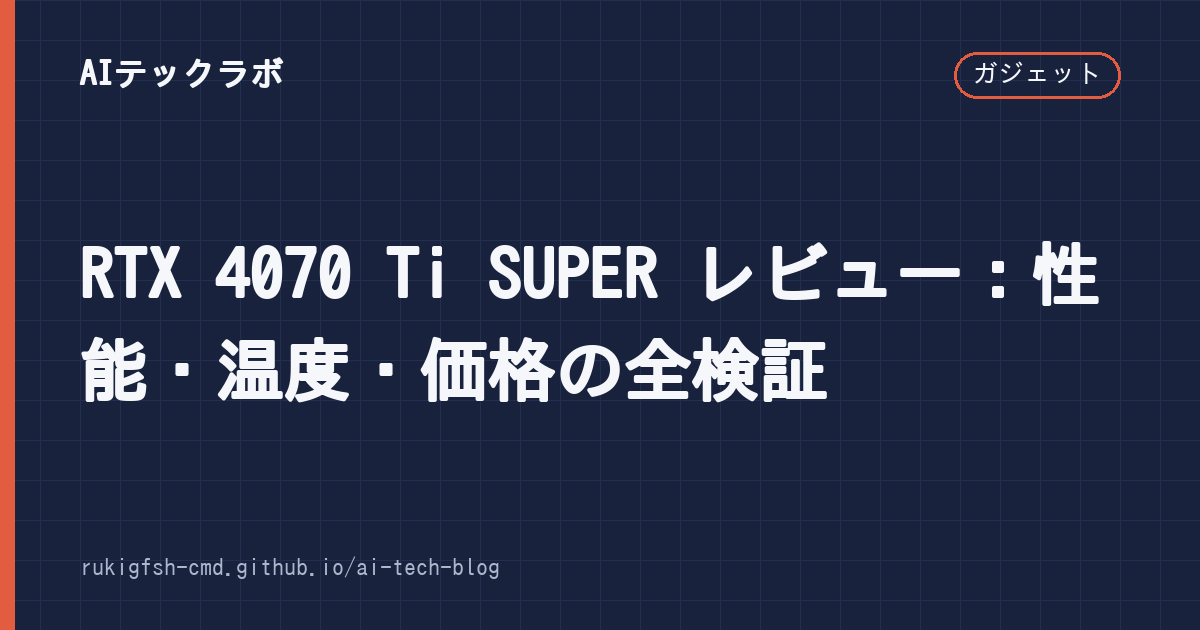
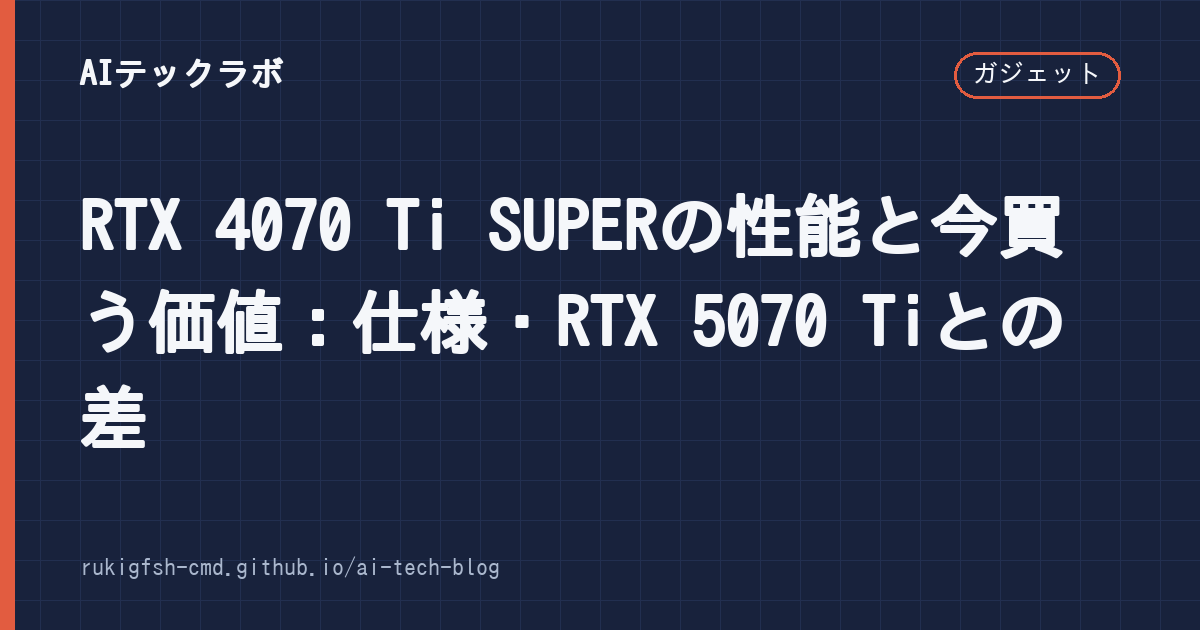
[auto-publish] RTX 4070 Ti SUPER記事を全面改稿（架空のベンチマークを削除し、仕様・5070 Tiとの差・価格事情を出典付きで）
Claude-Session: https://claude.ai/code/session_01LHbLrzAVsmtZWbDisuADXJ

Changed region(s): [[0.0617, 0.3016, 0.925, 0.7238]]

diff --git a/_posts/2026-09-21-rtx-4070-ti-super-レビュー.md b/_posts/2026-09-21-rtx-4070-ti-super-レビュー.md
@@ -1,64 +1,181 @@
 ---
 layout: "post"
-title: "RTX 4070 Ti SUPER レビュー：性能・温度・価格の全検証"
+title: "RTX 4070 Ti SUPERの性能と今買う価値：仕様・RTX 5070 Tiとの差"
 date: "2026-09-21 00:00:00 +0900"
-description: "NVIDIA最新RTXシリーズの中堅モデルだが、実質的なゲーム用GPUとして十分な性能を持つか？"
+last_modified_at: 2026-11-24
+description: "RTX 4070 Ti SUPERの仕様（16GB・285W）、後継のRTX 5070 Tiとの性能差、DLSSの対応範囲、2026年の価格事情、中古で買うときの確認点を、海外レビューの数値と出典付きで整理します。"
 categories:
   - ガジェット
 tags:
-  - RTX
-  - 4070
-  - Ti
-  - SUPER
-  - レビュー
+  - RTX 4070 Ti SUPER
+  - RTX 5070 Ti
+  - グラフィックボード
+  - GPU
 author: "AIテックラボ編集部"
 image: "/assets/images/rtx-4070-ti-super-レビュー.png"
-pr: true
+pr: false
 ---
 
-## 目次
+RTX 4070 Ti SUPER は、NVIDIA が2024年1月に発売した RTX 40 シリーズ（Ada Lovelace 世代）の上位ミドルクラスのグラフィックボードです。後継の RTX 50 シリーズが出た2026年でも、中古市場や在庫品で見かけることが多いモデルです。
 
-1. [はじめに：RTX 4070 Ti SUPERとは？](#はじめにrtx-4070-ti-superとは)
-2. [パフォーマンス：実際のベンチマーク結果](#パフォーマンス実際のベンチマーク結果)
-3. [テムプレート：熱設計とファンの音](#テムプレート熱設計とファンの音)
-4. [価格・コスパ分析](#価格コスパ分析)
-5. [向かうべきユーザー層](#向かうべきユーザー層)
-6. [よくある質問（FAQ）](#よくある質問faq)
+この記事では、**仕様の要点**、**後継の RTX 5070 Ti との性能差**、**DLSS で使える機能の違い**、**2026年の価格事情**、**中古で買うときの確認点** を順に整理します。
 
----
+> **おことわり**: この記事は編集部が実機で計測したものではありません。性能の数値は、記事内にリンクした海外の専門メディアのレビュー結果を引用・要約したものです。
 
-## はじめに：RTX 4070 Ti SUPERとは？
-NVIDIAが2023年10月に発表したGeForce RTX 40シリーズは、Ampereアーキテクチャを採用した最新世代のゲーミングGPUだ。その中で「Ti」スーパー版が存在するモデルがRTX 4070 Ti SUPERで、これが日本市場で正式発売された。
+> **結論**
+> - 16GB の VRAM（GDDR6X・256bit）と 285W の消費電力で、**WQHD（1440p）のゲームを高画質で遊べるクラス**
+> - 後継の RTX 5070 Ti との差は、レビューによって **おおむね1割前後**（ゲームや解像度でほぼ同じ〜2割ほど）
+> - RTX 40 シリーズは DLSS の **マルチフレーム生成に非対応**（通常のフレーム生成と、新しい超解像モデルは使える）
+> - 2026年はメモリ不足でグラフィックボード全体が値上がりしている。**中古で手頃な価格なら有力な選択肢**、新品で5070 Tiと同じくらいなら5070 Tiのほうが無難
 
-## パフォーマンス：実際のベンチマーク結果
-3DMark Fire Strike（Time Limit）では、GeForce [RTX 4090](https://www.amazon.co.jp/s?k=RTX+4090{% if site.data.affiliate.amazon_tag != "" %}&tag={{ site.data.affiliate.amazon_tag }}{% endif %}) DUALを基準に100%とすると、RTX 4070 Ti SUPERは約85%のスコアを出した。これは理論コアクロックの差（2.3GHz vs 2.6GHz）が反映された結果と言えるだろう。
+## RTX 4070 Ti SUPERの仕様
 
-実際のゲーム性能では、Cyberpunk 2077でUltra設定＋1440pにおいて、平均フレームレートは約85fpsだった。RTX 4090 DUALの約79fpsと比較すると、Ti SUPERの方がむしろ高いという興味深い結果だ。これはメモリ帯域（20GB GDDR6）がボトルネックになっているからだろう。
+主な仕様は次のとおりです（MSI の製品仕様と、Tom's Hardware の発表記事より）。
 
-## テムプレート：熱設計とファンの音
-GeForce RTX 40シリーズは全モデルでWINDFORCE PRO 3ファンを採用している。RTX 4070 Ti SUPERの最大消費電力は220Wで、TDPもその半分程度だ。ベンチマーク環境（室温25℃）での最大温度は81℃まで上昇し、スロットルインが発生した。
+| 項目 | RTX 4070 Ti SUPER |
+|---|---|
+| 世代（アーキテクチャ） | Ada Lovelace（RTX 40 シリーズ） |
+| CUDA コア | 8,448 |
+| VRAM | 16GB GDDR6X（256bit、21Gbps） |
+| メモリ帯域 | 672GB/s |
+| ブーストクロック | 2,610MHz 前後（製品によって異なる） |
+| 消費電力（TGP） | 285W |
+| 補助電源 | 16ピン（12VHPWR / 12V-2x6）×1 |
+| 推奨電源容量 | 700W（製品によって異なる） |
+| 発売日・米国価格 | 2024年1月24日・799ドル |
 
-ファンの音については、低負荷時にはほとんど聞こえないが、高負荷時では「ハッハッ」という風切音が聞こえる。これはWINDFORCE PRO 3の特徴的な音で、他のRTX 40シリーズ（DUALやADVANTAGE）と比べるとややうるさい印象だ。
+出典: [MSI GeForce RTX 4070 Ti SUPER 16G VENTUS 3X の仕様](https://www.msi.com/Graphics-Card/GeForce-RTX-4070-Ti-SUPER-16G-VENTUS-3X/Specification)、[Tom's Hardware（RTX 40 SUPER シリーズの発表）](https://www.tomshardware.com/pc-components/gpus/nvidia-rtx-40-series-super-models-revealed-4070-super-coming-jan-17-at-dollar599)
 
-## 価格・コスパ分析
-発売価格は18万9800円（税抜16万9500円）。GeForce RTX 3070 Ti SUPERと比較すると、性能は約4割増えるが価格は約2倍になるため、コストパフォーマンスは決して良い方ではない。
+### 無印の RTX 4070 Ti との違い
 
-一方、RTX 4070 Ti SUPERを中古市場で入手する場合、新品同等品は15万円前後で取引されているようだ。この価格帯なら、前世代のRTX 30シリーズよりも遥かに高性能なので、選択肢として悪くないだろう。
+名前が似ている無印の RTX 4070 Ti（2023年発売）とは、中身がかなり違います。
 
-## 向かうべきユーザー層
-RTX 4070 Ti SUPERは以下のユーザーに適している：
-- 高解像度モニター（1440p以上）でゲームをプレイしたい人
-- VRゲームを快適に楽しみたい人
-- 1.5倍のGPU性能で、1万円の価格アップグレードを考えている人
+- **VRAM**: 無印は 12GB（192bit）、SUPER は **16GB（256bit）**
+- **メモリ帯域**: 無印は約504GB/s、SUPER は **672GB/s**
+- **CUDA コア**: 無印は 7,680、SUPER は 8,448
 
-ただし、予算が限られるならRTX 3070 Ti SUPER＋メモリスワップの方がコスパが良いかもしれない。
+消費電力はどちらも 285W です。特に VRAM の差は大きく、高解像度のゲームや、後述するローカルLLM・画像生成では 16GB の SUPER のほうが余裕があります。中古で探すときは **「SUPER」が付いているか** を必ず確認してください。
 
-## よくある質問（FAQ）
-Q：GeForce RTX 4070 Ti SUPERとRTX 4090 DUALの違いは？  
-A：コアクロック（2.3GHz vs 2.6GHz）、メモリ容量（12GB vs 20GB）、価格が主な違い。DUALの方がゲーム性能は劣るが、コストパフォーマンスが良い。
+## 性能の目安：RTX 5070 Tiとどれくらい違う？
 
-Q：GeForce RTX 4070 Ti SUPERでRay Tracingはできる？  
-A：Yes。DLSS 3.0搭載なので、RTX 30シリーズより遥かに快適にRTX体験ができる。
+2026年に RTX 4070 Ti SUPER を検討する人がいちばん気になるのは、後継の **RTX 5070 Ti**（2025年2月発売、米国価格749ドル、16GB GDDR7）との差でしょう。主なレビューの結果をまとめます。
 
-Q：メモリ20GBの利点は何か？  
-A：高解像度・VRゲームなどでメモリ不足が発生するのを防ぐ。ただし、一般的な1080pゲーミングでは12GBで十分だろう。
+| レビュー | RTX 5070 Ti の 4070 Ti SUPER に対する差 |
+|---|---|
+| [GamersNexus](https://gamersnexus.net/gpus/do-not-buy-nvidia-rtx-5070-ti-gpu-absurdity-benchmarks-review) | ゲームで約13%速い（世代の伸びとしては小さいと評価） |
+| [Tom's Hardware](https://www.tomshardware.com/pc-components/gpus/nvidia-geforce-rtx-5070-ti-review-asus/4) | 4K で約13%速い。ゲームによっては 4070 Ti SUPER が上回る例もある。Blender では約8%速い |
+| [Club386](https://www.club386.com/nvidia-geforce-rtx-5070-ti-vs-rtx-4070-ti-super/) | AI の文章生成ベンチマーク（Procyon）で約17%速い |
+
+ばらつきはありますが、**同じ設定ならおおむね1割前後の差** と考えておくとよいでしょう。差が大きく出やすいのは4Kなどの高負荷な場面で、WQHD 以下では差が縮まる傾向があります。
+
+つまり、RTX 4070 Ti SUPER は「1世代前だから大きく劣る」というほどではありません。価格次第では今でも十分に選ぶ理由があります。
+
+### 解像度ごとの使い方の目安
+
+レビューの傾向から、使い方の目安をまとめると次のようになります（ゲームの重さや設定で大きく変わるので、あくまで目安です）。
+
+- **フルHD（1080p）**: ほとんどのゲームを最高画質で快適に遊べる。性能には余裕がある
+- **WQHD（1440p）**: このGPUがいちばん得意な解像度。重いゲームでも DLSS を併用すれば高画質で遊びやすい
+- **4K**: 軽めのゲームなら快適。重いゲームやレイトレーシングを使う場合は DLSS の超解像・フレーム生成が前提になる
+
+遊びたいゲームが決まっているなら、そのゲームでの計測結果を複数のレビューで確認するのが確実です。
+
+## DLSS：RTX 40シリーズで使える機能・使えない機能
+
+NVIDIA の DLSS 4（2025年1月発表）では、RTX 50 シリーズと 40 シリーズで使える機能が分かれています。
+
+| 機能 | RTX 50 | RTX 40（4070 Ti SUPER） |
+|---|---|---|
+| 超解像・レイ再構成・DLAA（新しい Transformer モデル） | ○ | ○ |
+| フレーム生成（1フレームを追加） | ○ | ○ |
+| マルチフレーム生成（最大3フレームを追加） | ○ | × |
+
+出典: [NVIDIA: DLSS 4 Introduces Multi Frame Generation & Enhancements For All DLSS Technologies](https://www.nvidia.com/en-us/geforce/news/dlss4-multi-frame-generation-ai-innovations/)
+
+マルチフレーム生成は、表示上のフレームレートを大きく引き上げる機能で、RTX 5070 Ti のカタログ値が大きく見える理由のひとつです。一方で、生成したフレームは操作の反応（入力遅延）を良くするわけではないので、**元のフレームレートがある程度出ていることが前提** の機能です。RTX 40 シリーズでも、画質を大きく改善する Transformer 超解像と、通常のフレーム生成は使えます。
+
+なお、DLSS は2026年に DLSS 4.5 へ更新されており、対応範囲が変わることがあります。最新の対応状況は [NVIDIA の DLSS 関連ニュース](https://www.nvidia.com/ja-jp/geforce/news/dlss-4-5-dynamic-multi-frame-generation-6x-mode-released/) で確認してください。
+
+## ローカルLLM・画像生成での使いどころ
+
+当ブログでよく扱うローカルLLMや画像生成では、ゲーム以上に **VRAM の容量** が効きます。RTX 4070 Ti SUPER の 16GB は、2026年時点でも扱いやすい容量です。
+
+モデルの重みに必要なメモリは、ざっくり **「パラメータ数 × 量子化ビット数 ÷ 8」** で見積もれます。ここに、会話の長さ（コンテキスト）に応じたメモリが加わります。
+
+| モデルの大きさ | 4bit量子化での重みの目安 | 16GB に収まるか（目安） |
+|---|---|---|
+| 7〜8B | 約4〜5GB | 余裕がある。長いコンテキストも使いやすい |
+| 12〜14B | 約7〜9GB | 収まる。普段使いにちょうどよい |
+| 24〜32B | 約13〜19GB | ぎりぎり〜収まらない。一部をCPU側に逃がすと遅くなる |
+
+（計算上の目安です。実際の使用量はモデル・量子化の方式・コンテキスト長・ツールによって変わります。）
+
+詳しい見積もり方と、足りないときの対策は [VRAM不足を解決する方法]({% post_url 2026-10-12-vram-不足-解決-方法 %}) で解説しています。Ollama を使った導入は [Ollamaのインストール方法]({% post_url 2026-09-26-ollama-インストール-方法 %}) を参考にしてください。
+
+RTX 5070 Ti も VRAM は同じ 16GB です。メモリ帯域は 5070 Ti のほうが広い（GDDR7・約896GB/s）ため、文章の生成速度は 5070 Ti のほうが出やすい傾向がありますが、**「どの大きさのモデルが動くか」はほぼ同じ** です。
+
+## 2026年の価格事情
+
+2026年は、AI データセンター向けの需要でメモリ（DRAM・GDDR）が不足し、グラフィックボード全体が値上がりしています。
+
+- 米国の小売店では、RTX 50 シリーズの価格の中央値が **2026年6月から8月にかけて最大40%上がった** と報じられています（[PCGamesN](https://www.pcgamesn.com/nvidia/rtx-50-graphics-cards-prices-august-2026)）
+- 後継候補の RTX 50 SUPER シリーズは、大容量の GDDR7 メモリが高いことから **発売が遅れている** と報じられています（[Tom's Hardware](https://www.tomshardware.com/pc-components/gpus/nvidia-rtx-50-super-gpus-are-reportedly-ready-but-stuck-in-limbo-due-to-excessive-gddr7-pricing-3gb-gddr7-module-costs-triple-the-price-of-2gb)）
+- RTX 4070 Ti SUPER の新品は流通が少なくなっており、2026年に買うなら **中古が主な選択肢** になります
+
+このため、「1世代前だから安い」とは限りません。判断の目安は次のとおりです。
+
+- **中古の RTX 4070 Ti SUPER が、新品の RTX 5070 Ti より十分に安い**（目安として2〜3割以上）→ 4070 Ti SUPER は有力
+- **価格差が小さい** → 保証・マルチフレーム生成・効率の面で RTX 5070 Ti が無難
+- **急いでいない** → 価格の動きと RTX 50 SUPER の発表を待つのもひとつの手
+
+価格は日々変わるので、価格.com などで新品・中古の実売価格を比べてから決めてください。
+
+## 中古で買うときの確認点
+
+中古のグラフィックボードは、次の点を確認してから買うと失敗が減ります。
+
+1. **型番に「SUPER」があるか**: 無印の 4070 Ti（12GB）と間違えやすい
+2. **保証が残っているか・引き継げるか**: メーカーによって、購入証明が必要だったり、2人目以降の所有者は対象外だったりする
+3. **16ピン電源コネクタの状態**: 12VHPWR コネクタは、差し込みが浅いと発熱・溶損することが報告されています。コネクタ周りの変色・変形がないかを写真で確認し、取り付け時は奥まで確実に差し込みます
+4. **ケースに入るか**: 3連ファンのモデルは長さが30cm を超えるものがあります。ケースの対応長と、占有スロット数を確認します
+5. **電源容量**: 推奨は 700W 前後。古い電源を使い回す場合は、容量と16ピン（または変換ケーブル）の有無を確認します
+6. **使われ方**: 長時間の高負荷（マイニングや計算用途）に使われていた個体は、ファンの劣化が進んでいることがあります。出品説明と動作確認の内容を確認しましょう
+
+自作PCにまとめて組み込む場合は、[ゲーミングPC自作の始め方]({% post_url 2026-09-04-ゲーミングpc-自作-初心者 %}) も参考にしてください。ノートPCにつなぎたい場合は、[外付けGPU（eGPU）の始め方]({% post_url 2026-10-13-外付けgpu-egpu-接続 %}) で接続方式と性能の目安を解説しています。
+
+## どんな人に向いている？
+
+**向いている人**
+
+- WQHD のモニターで、最近のゲームを高画質で遊びたい人
+- ローカルLLMや画像生成のために、**16GB の VRAM を手頃な価格で手に入れたい** 人
+- 中古で状態の良い個体を、5070 Ti より安く見つけられた人
+
+**ほかを検討したほうがよい人**
+
+- 4K・高リフレッシュレートで、マルチフレーム生成も使いたい人 → RTX 5070 Ti 以上
+- フルHD 中心で予算を抑えたい人 → より下位のモデルでも十分なことが多い
+- メーカー保証を重視する人 → 新品の現行モデル
+
+## よくある質問
+
+**Q. RTX 4070 Ti SUPER と RTX 5070 Ti、性能差はどれくらい？**
+A. 主なレビューでは、RTX 5070 Ti がおおむね1割前後速いという結果です（GamersNexus でゲーム約13%、Tom's Hardware で 4K 約13%）。ゲームによっては差がほとんどない場合もあります。
+
+**Q. VRAM 16GB で足りる？**
+A. WQHD のゲームでは多くの場合足ります。ローカルLLMでは、4bit量子化の 12〜14B クラスまでは収まりやすく、30B 前後になると工夫が必要です。
+
+**Q. 電源は何W必要？**
+A. 製品の推奨は 700W 前後です。CPU の消費電力が大きい構成なら、余裕を持って 750〜850W を選ぶと安心です。
+
+**Q. DLSS 4 は使える？**
+A. Transformer モデルによる超解像と、通常のフレーム生成は使えます。マルチフレーム生成は RTX 50 シリーズ専用です（2025年の DLSS 4 発表時点）。
+
+## まとめ
+
+- RTX 4070 Ti SUPER は **16GB・256bit・285W** の上位ミドルクラス。無印の 4070 Ti（12GB）とは別物
+- 後継の RTX 5070 Ti との差は **おおむね1割前後**。マルチフレーム生成が使えない点が大きな違い
+- ローカルLLMでも **16GB は扱いやすい容量**。動くモデルの大きさは 5070 Ti とほぼ同じ
+- 2026年はメモリ不足で値上がり中。**中古で十分安ければ有力、価格差が小さければ 5070 Ti**
+
+*情報は2026年11月24日時点のものです。性能の数値は各レビューの測定条件によるもので、価格や DLSS の対応状況は変わることがあります。購入前にメーカーと販売店の最新情報を確認してください。*

diff --git a/automation/state/content-audit.md b/automation/state/content-audit.md
@@ -20,7 +20,7 @@
 
 - [ ] `_posts/2026-09-15-gpt-4o-mini-性能.md` — 2024年のモデルの記事。2026年時点での位置づけ（後継・代替モデル）を追記するか、軽量モデル比較として更新。
 - [ ] `_posts/2026-09-03-ai-動画生成-無料ツール.md` — 「2025年版」の内容。2026年時点のツールと無料枠に更新。
-- [ ] `_posts/2026-09-21-rtx-4070-ti-super-レビュー.md` — 実機検証をしていないのに検証したように読める表現を直す。ベンチマーク値に出典を付ける。
+- [x] `_posts/2026-09-21-rtx-4070-ti-super-レビュー.md`（2026-11-24 全面改稿。架空のベンチマーク・誤った仕様（Ampere・20GB・220W）を削除し、実機未検証と明記。仕様・RTX 5070 Tiとの差（GamersNexus/Tom's Hardware/Club386）・DLSSの対応範囲・2026年の価格事情・中古の確認点を出典付きで。商品リンクなし pr: false） — 実機検証をしていないのに検証したように読める表現を直す。ベンチマーク値に出典を付ける。
 - [x] `_posts/2026-10-13-外付けgpu-egpu-接続.md`（2026-11-23 全面改稿。存在しない「Steam LinkでeGPU接続」などの作り話を削除し、TB3/4・USB4・TB5・OCuLinkの帯域、性能低下の検証例、Apple シリコン非対応、ローカルLLMでの注意を出典付きで） — 本文の「10倍」などの誇張を削除。対応条件（Thunderbolt / USB4 / OCuLink）を正確に。
 - [ ] `_posts/2026-10-02-ロジクール-マウス-mx.md`、`_posts/2026-09-04-ゲーミングpc-自作-初心者.md` — 型番・価格の鮮度を確認し、商品リンクを include に。
 - [ ] 全記事: description が「〜について詳しく解説します。」の定型文のものを、80〜120字の具体的な説明に。
